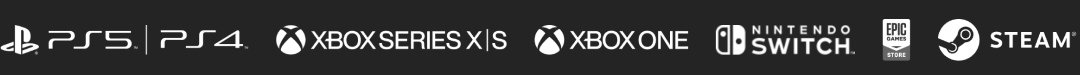
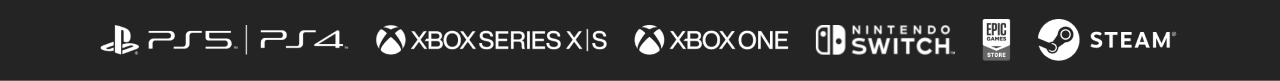
Arregla footer

Changed region(s): [[0.0, 0.2133, 1.0, 0.8267], [0.0, 0.9867, 1.0, 1.0]]

diff --git a/Entregable-n4/index.html b/Entregable-n4/index.html
@@ -224,8 +224,8 @@
         
         <footer>
             <div id="publicidad">
-                <img src="css/imagenes/footer/marcas.png" alt="publicidad">
             </div>
+            <img src="css/imagenes/footer/marcas.png" alt="publicidad">
                 <p>©SEGA. All rights reserved. SEGA is registered in the U.S. Patent and Trademark Office. SEGA, the SEGA logo and SONIC SUPERSTARS are either registered trademarks or trademarks of SEGA CORPORATION or its affiliates. All other trademarks, logos and copyrights are property of their respective owners.©2023 The LEGO Group. LEGO, the LEGO logo, the Minifigure, and the Brick and Knob configurations are trademarks and/or copyrights of the LEGO Group. All other marks and trademarks are the property of their respective owners. All rights reserved."PS", "PS5" and "PS4" are registered trademarks or trademarks of Sony Interactive Entertainment Inc.Microsoft, the Xbox Sphere mark, the Series X logo, Xbox One, and Xbox Series X are trademarks of the Microsoft group of companies.Nintendo Switch is a trademark of NintendoEPIC GAMES and the EPIC STORE LOGO are trademarks or registered trademarks of EPIC GAMES INC.©2023 Valve Corporation. Steam and the Steam logo are trademarks and/or registered trademarks of Valve Corporation in the U.S. and/or other countries.The ESRB rating icons are registered trademarks of the Entertainment Software Association.
                 <br>
                 <br>

diff --git a/Entregable-n4/css/style.css b/Entregable-n4/css/style.css
@@ -1210,12 +1210,9 @@ footer #publicidad {
   background-color: #242424;
   height: 80px;
   width: 100%;
+  z-index: 100000;
 }
 
-#publicidad img {
-  margin-left: 100px;
-
-}
 
 footer p {
   width: 820px;
